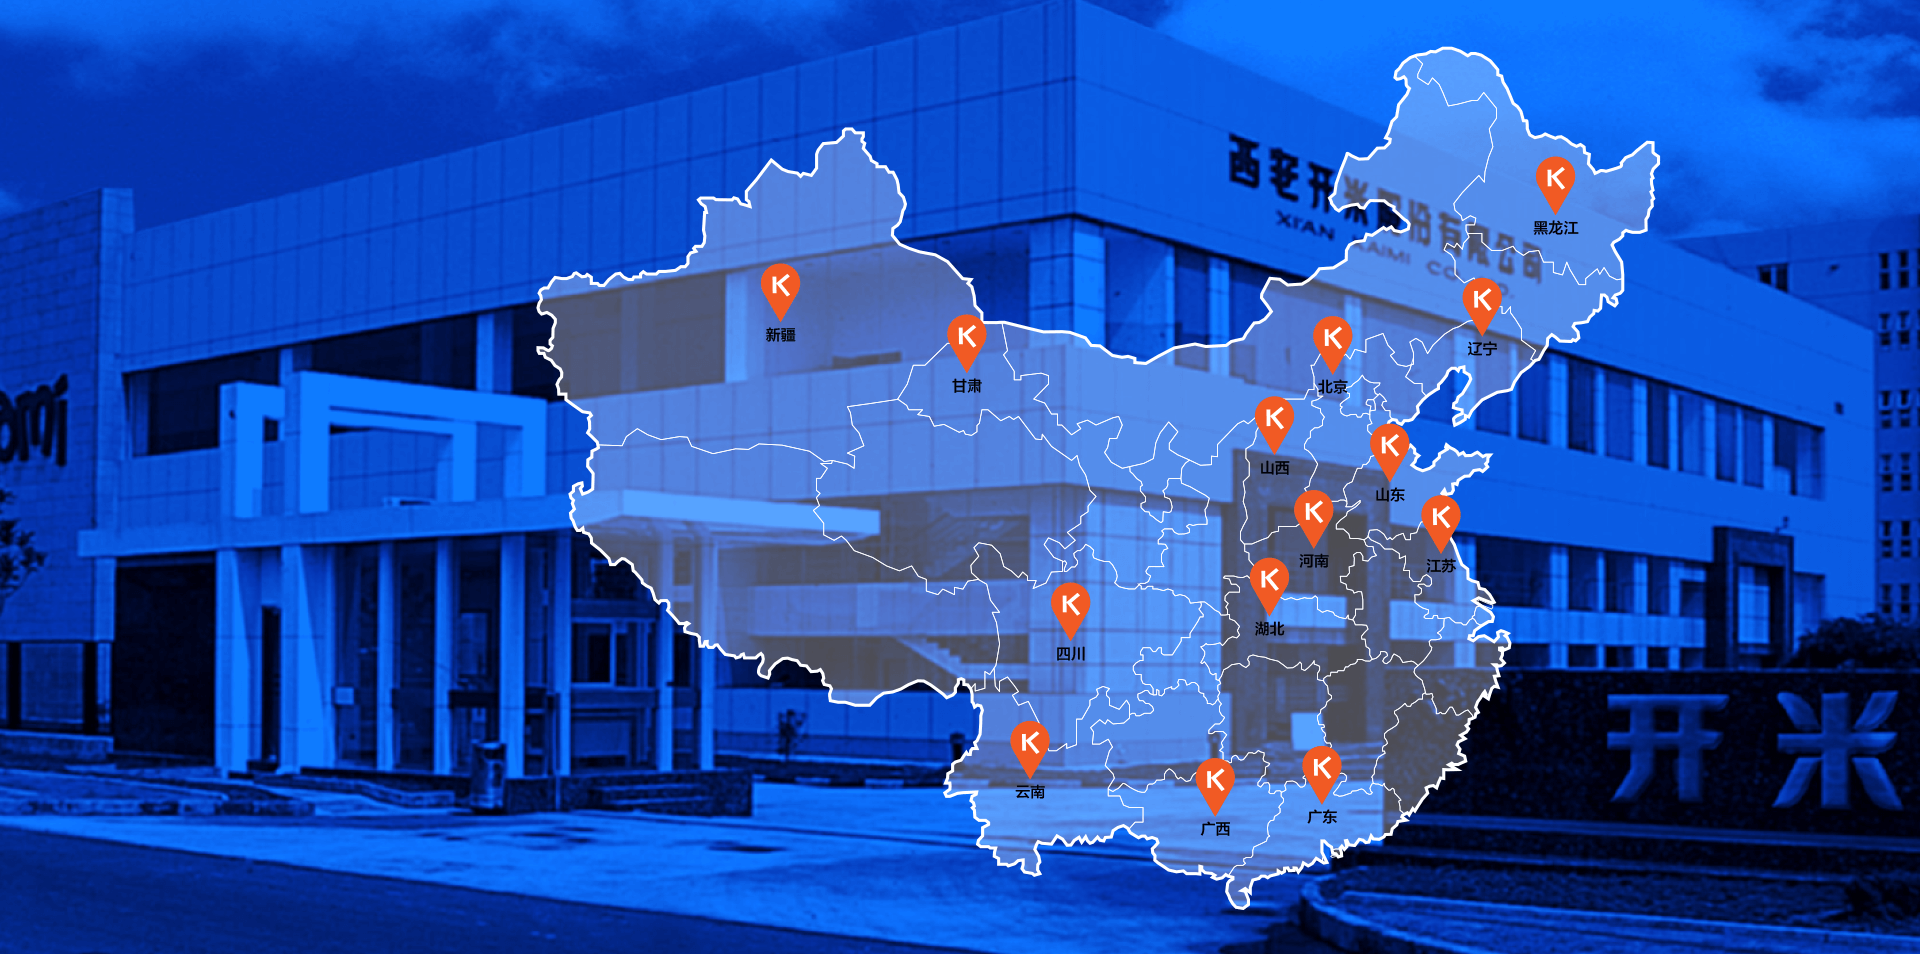
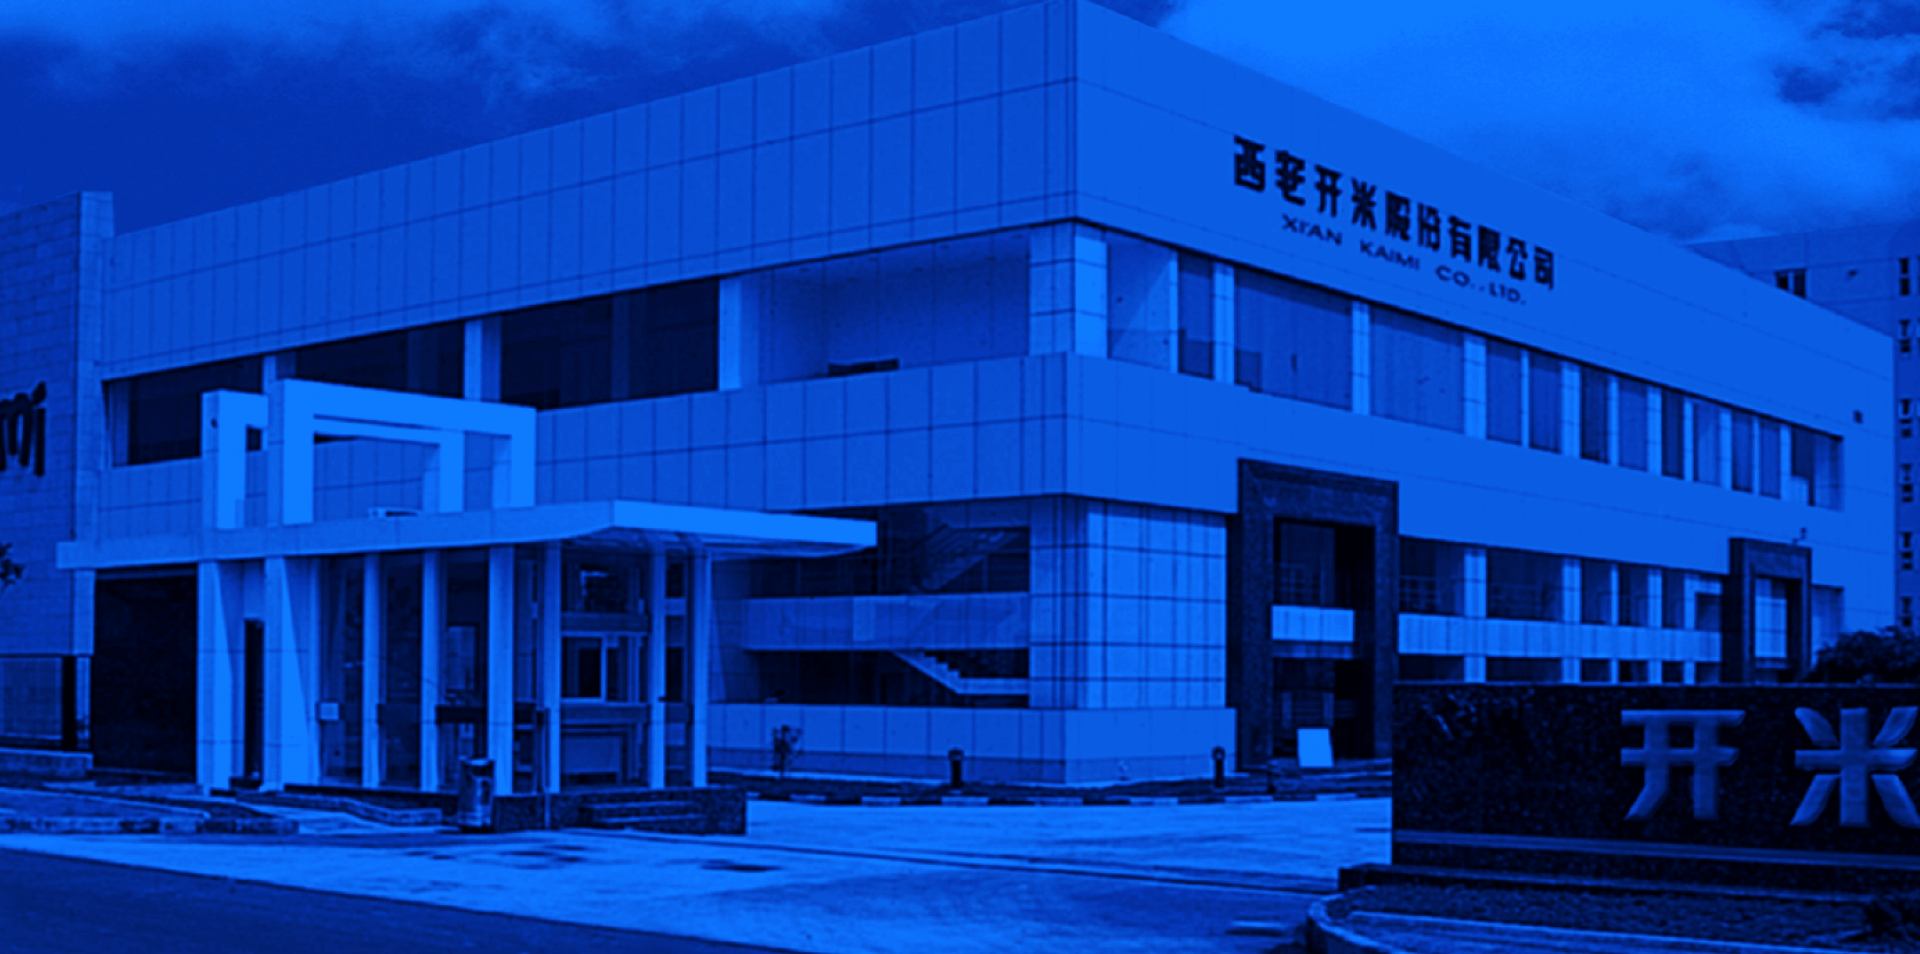
产品

diff --git a/product.html b/product.html
@@ -21,14 +21,15 @@
             overflow: hidden;
             height: 100%;
         } */
-
     </style>
 </head>
 
 <body>
     <header>
         <div class="logo">
-            <a href="/"><img src="assets/images/Index/logo.png" /></a>
+            <a href="/">
+                <img src="assets/images/Index/logo.png" />
+            </a>
         </div>
         <div class="menu">
             <ul>
@@ -101,57 +102,59 @@
                 </ul>
             </div>
             <div class="product_Minseries hide">
-                <a href="productlist.html" class="more">查看全部
-                    <i></i>
-                </a>
-                <h3 class="animated1 fadeInLeft">涤王洁衣系列</h3>
-                <ul>
-                    <li class="animated1 fadeInLeft">
-                        开米涤王浓缩多功能中性洗衣液（3蓓）1kg
-                    </li >
-                    <li class="animated1 fadeInLeft">
-                        开米涤王内衣专用洗涤液250g
-                    </li>
-                    <li class="animated2 fadeInLeft">
-                        开米涤王内衣专用洗涤液100g
-                    </li>
-                    <li class="animated2 fadeInLeft">
-                        开米涤王浓缩多功能中性洗衣液（3蓓）1kg
-                    </li>
-                    <li class="animated3 fadeInLeft">
-                        开米涤王浓缩多功能中性洗衣液（3蓓）1kg
-                    </li>
-                </ul>
-                <h3 class="animated3 fadeInLeft">力净清洗系列</h3>
-                <ul>
-                    <li class="animated3 fadeInLeft">
-                        力净强力洁厕净620g
-                    </li>
-                    <li class="animated4 fadeInLeft">
-                        力净钻石玻璃净620g
-                    </li>
-                    <li class="animated4 fadeInLeft">
-                        力净钻石玻璃净620g
-                    </li>
-                    <li class="animated5 fadeInLeft">
-                        力净钻石玻璃净620g
-                    </li>
-                    <li class="animated5 fadeInLeft">
-                        力净钻石玻璃净620g
-                    </li>
-                </ul>
-                <h3 class="animated6 fadeInLeft">健康清洗系列</h3>
-                <ul>
-                    <li class="animated6 fadeInLeft">
-                        开米蔬果清洗剂350g
-                    </li>
-                    <li class="animated7 fadeInLeft">
-                        开米餐具净（无香型）350g
-                    </li>
-                    <li class="animated7 fadeInLeft">
-                        开米蔬果清洗剂350g
-                    </li>
-                </ul>
+                <div class="row">
+                    <a href="productlist.html" class="more">查看全部
+                        <i></i>
+                    </a>
+                    <h3 class="animated1 fadeInLeft">涤王洁衣系列</h3>
+                    <ul>
+                        <li class="animated1 fadeInLeft">
+                            开米涤王浓缩多功能中性洗衣液（3蓓）1kg
+                        </li>
+                        <li class="animated1 fadeInLeft">
+                            开米涤王内衣专用洗涤液250g
+                        </li>
+                        <li class="animated2 fadeInLeft">
+                            开米涤王内衣专用洗涤液100g
+                        </li>
+                        <li class="animated2 fadeInLeft">
+                            开米涤王浓缩多功能中性洗衣液（3蓓）1kg
+                        </li>
+                        <li class="animated3 fadeInLeft">
+                            开米涤王浓缩多功能中性洗衣液（3蓓）1kg
+                        </li>
+                    </ul>
+                    <h3 class="animated3 fadeInLeft">力净清洗系列</h3>
+                    <ul>
+                        <li class="animated3 fadeInLeft">
+                            力净强力洁厕净620g
+                        </li>
+                        <li class="animated4 fadeInLeft">
+                            力净钻石玻璃净620g
+                        </li>
+                        <li class="animated4 fadeInLeft">
+                            力净钻石玻璃净620g
+                        </li>
+                        <li class="animated5 fadeInLeft">
+                            力净钻石玻璃净620g
+                        </li>
+                        <li class="animated5 fadeInLeft">
+                            力净钻石玻璃净620g
+                        </li>
+                    </ul>
+                    <h3 class="animated6 fadeInLeft">健康清洗系列</h3>
+                    <ul>
+                        <li class="animated6 fadeInLeft">
+                            开米蔬果清洗剂350g
+                        </li>
+                        <li class="animated7 fadeInLeft">
+                            开米餐具净（无香型）350g
+                        </li>
+                        <li class="animated7 fadeInLeft">
+                            开米蔬果清洗剂350g
+                        </li>
+                    </ul>
+                </div>
             </div>
             <div class="product_content hide animated5 fadeInLeft">
                 <div class="img">
@@ -167,7 +170,7 @@
             $('.product_series').on('click', 'li', function () {
                 var that = $(this)
                 that.addClass('active').siblings().removeClass("active");
-                    $('.product_Minseries').removeClass('hide')
+                $('.product_Minseries').removeClass('hide')
 
             })
             $('.product_list .product_Minseries').on('click', 'li', function () {

diff --git a/joinInvestment.html b/joinInvestment.html
@@ -6,7 +6,7 @@
     <meta http-equiv="X-UA-Compatible" content="ie=edge">
     <title>招商加盟</title>
     <link rel="stylesheet" href="assets/css/base.css">
-
+    <link rel="stylesheet" href="assets/css/common.css">
     <script src="assets/js/jquery.min.js"></script>
     <script src="assets/js/swiper-3.4.2.min.js"></script>
 
@@ -115,12 +115,16 @@
             </ul>
         </div>
     </header>
+    <div class="h105"></div>
     <section class="join_warp">
         <div class="banner">
             <div class="message">
                 <h1>招商加盟</h1>
                 <h3>加盟商园地</h3>
                 <p>公司现已在国内30多个省会城市、单列市设立了子公司、分公司（办事处），建立了20多家开米双绿色产品在线专卖店，形成了覆盖全国的营销网络。</p>
+            </div>
+            <div class="map">
+                <img src="assets/images/join/map.png" alt="">
             </div>
         </div>
         <div class="limg slideInDown animated animated1">
@@ -388,8 +392,13 @@
             }, 3000);
 
             setTimeout(function () {
-                $(".message").css("visibility", "unset").addClass("fadeIn").addClass("animated");
+                $(".banner .map").css("visibility", "unset").addClass("fadeIn").addClass("animated");
             }, 7000);
+
+
+            setTimeout(function () {
+                $(".banner .message").css("visibility", "unset").addClass("fadeIn").addClass("animated");
+            }, 8000);
         })
     </script>
 </body>

diff --git a/assets/css/product.css b/assets/css/product.css
@@ -13,7 +13,7 @@
   top: 0; }
 
 .product_list .product_series {
-  width: 33.3%;
+  width: 29%;
   background: rgba(255, 255, 255, 0.85);
   padding-top: 194px;
   padding-left: 104px; }
@@ -33,10 +33,14 @@
   background: rgba(255, 255, 255, 0.85);
   padding-top: 190px;
   font-size: 14px;
-  color: #999; 
+  color: #999;
   text-align: center;
-  overflow: hidden;
- }
+  overflow: hidden; }
+
+.product_list .product_Minseries .row {
+  text-align: left;
+  width: 54%;
+  margin: 0 auto; }
 
 .product_list .product_Minseries h3 {
   margin-top: 34px;

diff --git a/assets/css/product.scss b/assets/css/product.scss
@@ -20,7 +20,7 @@
 }
 
 .product_list .product_series {
-    width: 33.3%;
+    width: 29%;
     // flex: 1;
     background: rgba(255, 255, 255, 0.85);
     padding-top: 194px;
@@ -49,6 +49,13 @@
     font-size: 14px;
     color: #999;
     text-align: center;
+    overflow: hidden;
+}
+
+.product_list .product_Minseries .row{
+    text-align: left;
+    width: 54%;
+    margin: 0 auto;
 }
 
 .product_list .product_Minseries .more {}

diff --git a/index.html b/index.html
@@ -82,7 +82,7 @@
         <div class="row join_list hide fadeIn animated">
             <a href="joinInvestment.html">招商加盟</a>
             <br/>
-            <a href="joinInvestment.html">岗位招聘</a>
+            <a href="kamifamily.html">岗位招聘</a>
         </div>
         <div class="row contact_list hide fadeIn animated">
             <a href="address.html">我们电话地址</a>

diff --git a/assets/css/join.css b/assets/css/join.css
@@ -2,7 +2,8 @@
   min-width: 1200px;
   height: 952px;
   background: url("../images/join/gdfgdfg.png") no-repeat center;
-  background-size: cover; }
+  background-size: cover;
+  display: flex; }
   .join_warp .banner .message {
     padding: 330px 0px 0 100px;
     max-width: 612px; }

diff --git a/assets/css/join.scss b/assets/css/join.scss
@@ -4,6 +4,7 @@
         height: 952px;
         background: url('../images/join/gdfgdfg.png') no-repeat center;
         background-size: cover;
+        display: flex;
         .message {
             padding: 330px 0px 0 100px;
             max-width: 612px;
